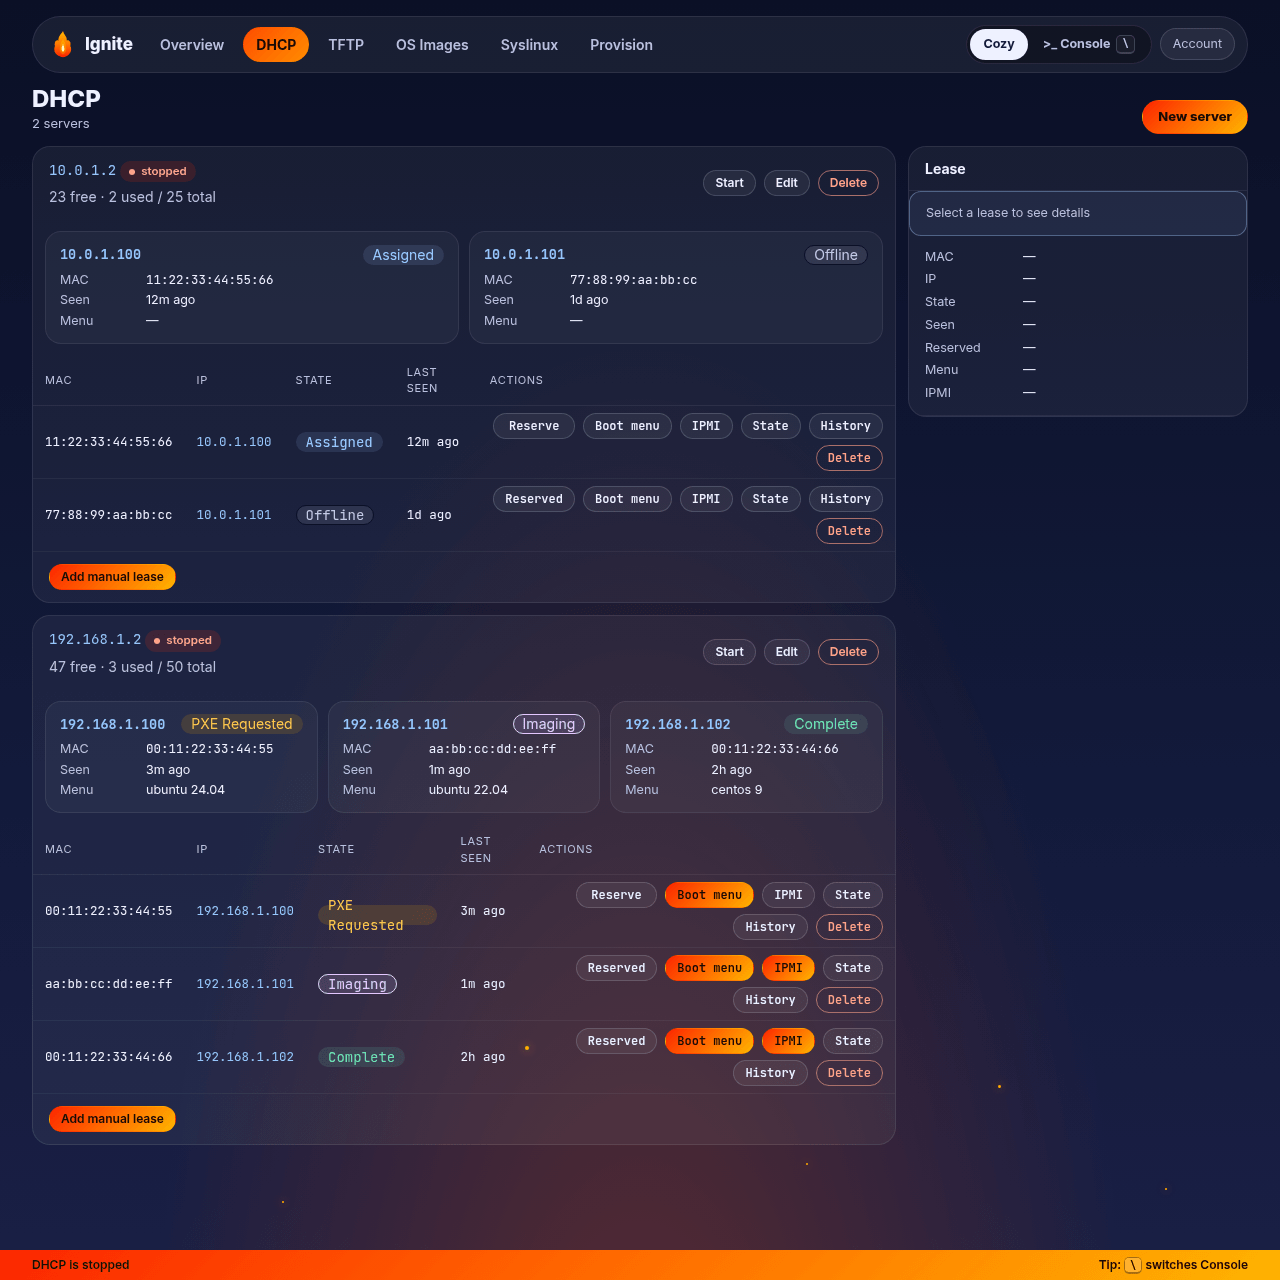
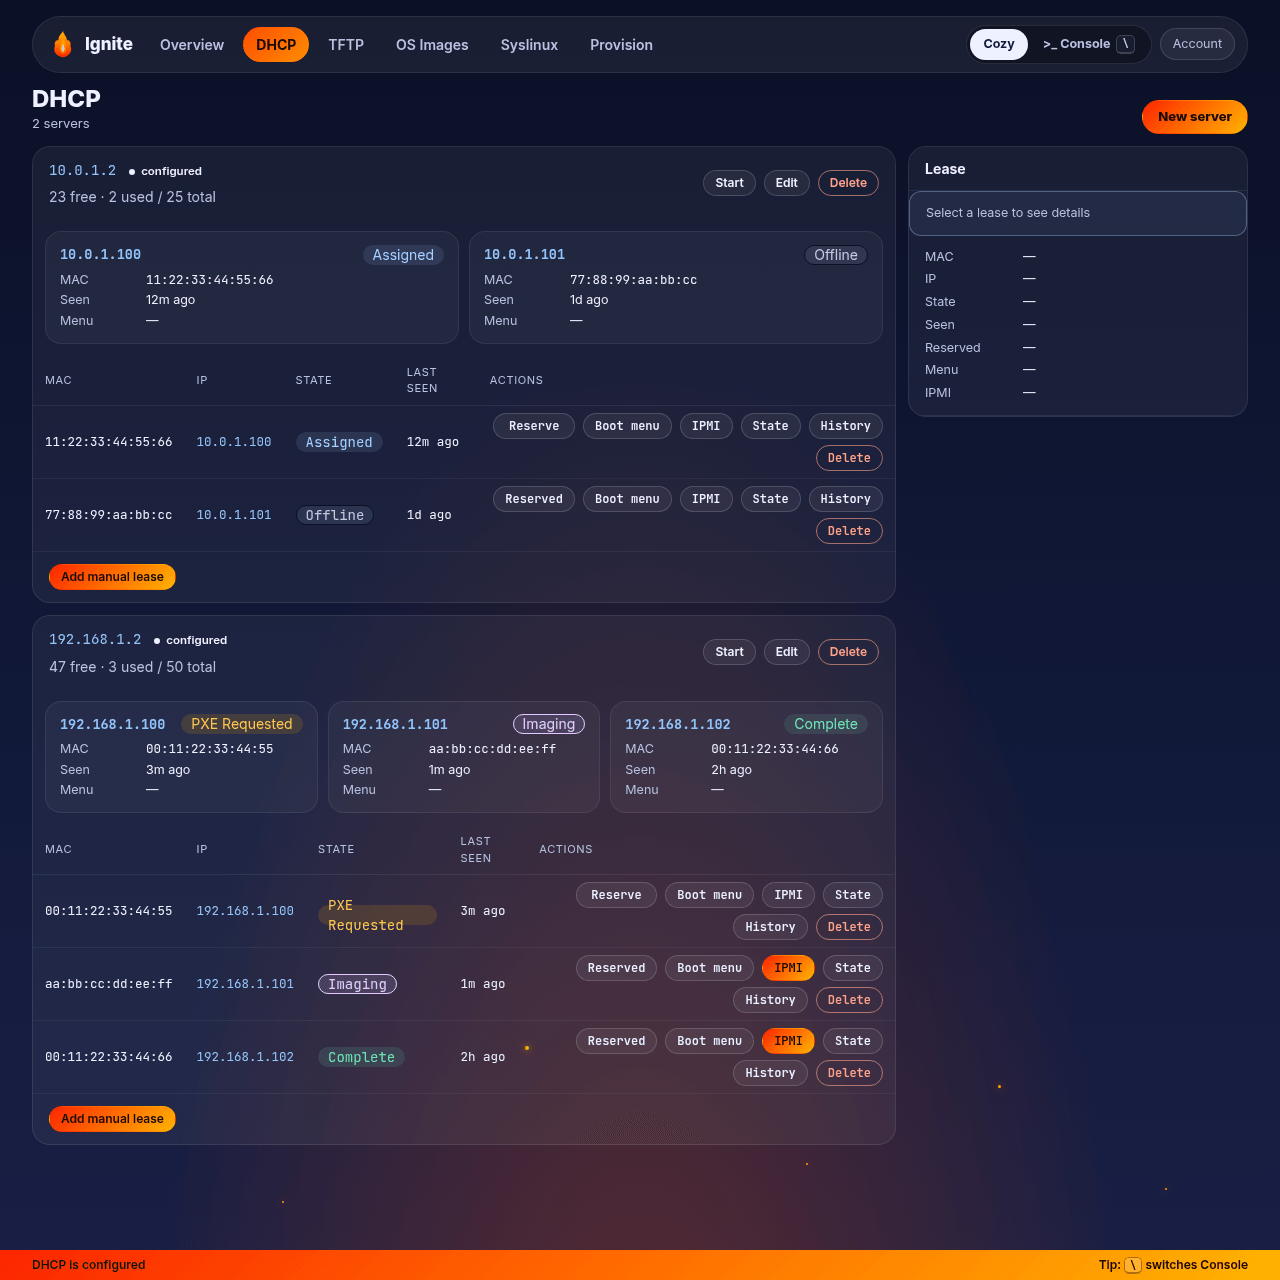
Show the DHCP server state without renaming it.
Overview, the DHCP page, and the status bar read one helper and keep running, configured, and stopped as given. A menu path, including /tmp, renders as an em dash until the backend supplies a friendly name.

diff --git a/handlers/ui_render_test.go b/handlers/ui_render_test.go
@@ -67,26 +67,26 @@ func TestAttentionAgreesWithDHCPStatus(t *testing.T) {
 		HTTPServer: ServiceStatus{Status: "running"},
 		TFTPServer: ServiceStatus{Status: "running"},
 		DHCPServers: []DHCPServerStatus{
-			{IP: "192.168.1.2", Status: "stopped"},
-			{IP: "10.0.1.2", Status: "stopped"},
+			{IP: "192.168.1.2", Status: "configured"},
+			{IP: "10.0.1.2", Status: "configured"},
 		},
 	}
 	annotateStatus(one)
 	if one.OverallStatus != "partial" {
 		t.Fatalf("overall %q", one.OverallStatus)
 	}
-	const wantOne = "1 thing needs attention: DHCP 192.168.1.2, 10.0.1.2 stopped"
-	if one.AttentionCozy != wantOne || one.AttentionConsole != "DHCP 192.168.1.2, 10.0.1.2 stopped" {
+	const wantOne = "1 thing needs attention: DHCP 192.168.1.2, 10.0.1.2 configured"
+	if one.AttentionCozy != wantOne || one.AttentionConsole != "DHCP 192.168.1.2, 10.0.1.2 configured" {
 		t.Fatalf("one issue: %q / %q", one.AttentionCozy, one.AttentionConsole)
 	}
 
 	two := &StatusPageData{
 		HTTPServer:  ServiceStatus{Status: "running"},
 		TFTPServer:  ServiceStatus{Status: "stopped"},
-		DHCPServers: []DHCPServerStatus{{IP: "10.0.0.1", Status: "stopped"}},
+		DHCPServers: []DHCPServerStatus{{IP: "10.0.0.1", Status: "configured"}},
 	}
 	annotateStatus(two)
-	const wantTwo = "2 things need attention: TFTP stopped · DHCP 10.0.0.1 stopped"
+	const wantTwo = "2 things need attention: TFTP stopped · DHCP 10.0.0.1 configured"
 	if two.OverallStatus != "partial" || two.AttentionCozy != wantTwo {
 		t.Fatalf("two issues: %s %q", two.OverallStatus, two.AttentionCozy)
 	}
@@ -203,7 +203,7 @@ func TestPagesRenderThemesFromMode(t *testing.T) {
 		Servers: []DHCPServerView{{
 			TFTPIP:     "192.168.1.2",
 			Running:    false,
-			StatusWord: "stopped",
+			StatusWord: "configured",
 			LeaseRange: 50,
 			Used:       1,
 			Free:       49,
@@ -218,19 +218,23 @@ func TestPagesRenderThemesFromMode(t *testing.T) {
 					OS:       "ubuntu",
 					Version:  "24.04",
 				},
-				MenuLabel: "ubuntu 24.04",
-				LastSeen:  time.Date(2026, 1, 2, 3, 4, 5, 0, time.UTC),
+				MenuLabel: menuLabel(dhcp.BootMenu{
+					Filename: "/tmp/ignite-tftp.UPoTst/pxelinux.cfg/01-00-11-22-33-44-55",
+					OS:       "ubuntu",
+					Version:  "24.04",
+				}),
+				LastSeen: time.Date(2026, 1, 2, 3, 4, 5, 0, time.UTC),
 			}, {
 				MAC:              "11:22:33:44:55:66",
 				IP:               "192.168.1.101",
 				StateDisplayName: "Offline",
 				StateBadgeClass:  "badge-ghost",
-				MenuLabel:        "Custom menu",
+				MenuLabel:        menuLabel(dhcp.BootMenu{Filename: "lab-menu"}),
 			}},
 		}, {
 			TFTPIP:     "10.0.1.2",
 			Running:    false,
-			StatusWord: "stopped",
+			StatusWord: "configured",
 			LeaseRange: 25,
 		}},
 	})
@@ -257,13 +261,12 @@ func TestPagesRenderThemesFromMode(t *testing.T) {
 	}
 	for _, want := range []string{
 		`class="sb"`,
-		"DHCP is stopped",
+		"DHCP is configured",
 		"2 servers · 2 leases",
 		"Select a lease to see details",
 		`id="det-title"`,
 		"Last seen",
-		"ubuntu 24.04",
-		"Custom menu",
+		"lab-menu",
 		"No leases on this server.",
 		`class="main"`,
 		"CONSOLE",
@@ -283,8 +286,8 @@ func TestPagesRenderThemesFromMode(t *testing.T) {
 	if strings.Contains(console, "/tmp/") || strings.Contains(console, "pxelinux.cfg") {
 		t.Error("dhcp page renders an internal menu path")
 	}
-	if strings.Contains(console, ">configured<") {
-		t.Error("dhcp page still says configured")
+	if !strings.Contains(console, ">configured<") {
+		t.Error("dhcp page did not show the server state")
 	}
 
 	tftp := renderNamed(t, "tftp", &TFTPData{

diff --git a/handlers/layout.go b/handlers/layout.go
@@ -277,20 +277,11 @@ func cozyHealth(overall string) string {
 func derivedHealth(data any, page string) string {
 	switch page {
 	case "dhcp":
-		servers, running, ok := dhcpRunning(data)
+		words, ok := dhcpStateWords(data)
 		if !ok {
 			return ""
 		}
-		switch {
-		case servers == 0:
-			return "No DHCP servers yet"
-		case running == 0:
-			return "DHCP is stopped"
-		case running == servers:
-			return "DHCP is running"
-		default:
-			return "Some DHCP servers are stopped"
-		}
+		return dhcpStateHealth(words)
 	case "tftp":
 		switch fieldString(data, "ServerStatus") {
 		case "running":
@@ -433,9 +424,56 @@ func fieldLen(data any, name string) (int, bool) {
 	return f.Len(), true
 }
 
-func dhcpRunning(data any) (servers, running int, ok bool) {
-	servers, running, _, ok = dhcpTotals(data)
-	return servers, running, ok
+// dhcpStateWords reads StatusWord from each DHCP server view. The status
+// bar uses those words as stored and does not rename one state to another.
+func dhcpStateWords(data any) ([]string, bool) {
+	f, found := structField(data, "Servers")
+	if !found || f.Kind() != reflect.Slice {
+		return nil, false
+	}
+	words := make([]string, 0, f.Len())
+	for i := 0; i < f.Len(); i++ {
+		item := f.Index(i)
+		for item.Kind() == reflect.Pointer || item.Kind() == reflect.Interface {
+			if item.IsNil() {
+				item = reflect.Value{}
+				break
+			}
+			item = item.Elem()
+		}
+		if !item.IsValid() || item.Kind() != reflect.Struct {
+			continue
+		}
+		word := item.FieldByName("StatusWord")
+		if word.IsValid() && word.Kind() == reflect.String {
+			words = append(words, strings.TrimSpace(word.String()))
+		}
+	}
+	return words, true
+}
+
+// dhcpStateHealth is the DHCP status-bar sentence. Every server sharing one
+// word reads "DHCP is <word>". Mixed words are listed in server order.
+func dhcpStateHealth(words []string) string {
+	if len(words) == 0 {
+		return "No DHCP servers yet"
+	}
+	var order []string
+	seen := map[string]bool{}
+	for _, word := range words {
+		if word == "" || seen[word] {
+			continue
+		}
+		seen[word] = true
+		order = append(order, word)
+	}
+	if len(order) == 0 {
+		return "No DHCP servers yet"
+	}
+	if len(order) == 1 {
+		return "DHCP is " + order[0]
+	}
+	return "DHCP is " + strings.Join(order, " and ")
 }
 
 func dhcpTotals(data any) (servers, running, leases int, ok bool) {

diff --git a/handlers/dhcp_test.go b/handlers/dhcp_test.go
@@ -561,29 +561,29 @@ func TestDHCPHandlers_getServerStatusBadge(t *testing.T) {
 	assert.Equal(t, "badge-error", badge)
 }
 
-func TestDHCPStatusWord(t *testing.T) {
-	if dhcpStatusWord(true) != "running" || dhcpStatusWord(false) != "stopped" {
-		t.Fatalf("words: %q %q", dhcpStatusWord(true), dhcpStatusWord(false))
+func TestDHCPServerState(t *testing.T) {
+	if dhcpServerState("", true) != "running" || dhcpServerState("", false) != "configured" {
+		t.Fatalf("fallback: %q %q", dhcpServerState("", true), dhcpServerState("", false))
+	}
+	if dhcpServerState("stopped", true) != "stopped" || dhcpServerState(" configured ", false) != "configured" {
+		t.Fatalf("passthrough: %q %q", dhcpServerState("stopped", true), dhcpServerState(" configured ", false))
 	}
 }
 
 func TestMenuLabel(t *testing.T) {
-	friendly := menuLabel(dhcp.BootMenu{
+	path := menuLabel(dhcp.BootMenu{
 		Filename: "/tmp/ignite-tftp.UPoTst/pxelinux.cfg/01-00-11-22-33-44-55",
 		OS:       "ubuntu",
 		Version:  "24.04",
 	})
-	if friendly != "ubuntu 24.04" {
-		t.Fatalf("os label: %q", friendly)
+	if path != "" {
+		t.Fatalf("tmp path: %q", path)
 	}
-	if got := menuLabel(dhcp.BootMenu{Filename: `/var/lib/tftp/pxelinux.cfg/01-aa`}); got != "Custom menu" {
-		t.Fatalf("path only: %q", got)
-	}
-	if got := menuLabel(dhcp.BootMenu{Filename: `ubuntu/24.04/vmlinuz`}); got != "Custom menu" {
+	if got := menuLabel(dhcp.BootMenu{Filename: `ubuntu/24.04/vmlinuz`, OS: "ubuntu", Version: "24.04"}); got != "" {
 		t.Fatalf("relative path: %q", got)
 	}
-	if got := menuLabel(dhcp.BootMenu{Filename: "custom.cfg"}); got != "custom.cfg" {
-		t.Fatalf("bare file: %q", got)
+	if got := menuLabel(dhcp.BootMenu{Filename: "lab-menu"}); got != "lab-menu" {
+		t.Fatalf("name: %q", got)
 	}
 	if got := menuLabel(dhcp.BootMenu{}); got != "" {
 		t.Fatalf("empty: %q", got)

diff --git a/handlers/status.go b/handlers/status.go
@@ -7,6 +7,7 @@ import (
 	"net/http"
 	"sort"
 	"strconv"
+	"strings"
 	"sync"
 	"time"
 )
@@ -83,14 +84,20 @@ func isDHCPRunning(serverID string, modelStarted bool) bool {
 	return modelStarted
 }
 
-// dhcpStatusWord is the only status word for a DHCP server. Overview tiles,
-// the DHCP page badge, and the status bar all use it. A server that is not
-// running is "stopped"; stored leases do not make it "configured".
-func dhcpStatusWord(running bool) string {
+// dhcpServerState is the DHCP server word Overview, /status/content, the
+// DHCP page, and the status bar all display. A non-empty state from the
+// server record is returned unchanged, so running, configured, and stopped
+// stay distinct. Until that field is set, a live listener is "running" and
+// any other record keeps the word this status endpoint already used,
+// "configured".
+func dhcpServerState(state string, running bool) string {
+	if s := strings.TrimSpace(state); s != "" {
+		return s
+	}
 	if running {
 		return "running"
 	}
-	return "stopped"
+	return "configured"
 }
 
 // StatusHandlers handles status-related requests
@@ -174,7 +181,7 @@ func (h *StatusHandlers) getStatusData(r *http.Request) (*StatusPageData, error)
 	for _, server := range servers {
 		leases, _ := h.container.LeaseService.GetLeasesByServer(ctx, server.ID)
 
-		status := dhcpStatusWord(isDHCPRunning(server.ID, server.Started))
+		status := dhcpServerState("", isDHCPRunning(server.ID, server.Started))
 
 		dhcpServers = append(dhcpServers, DHCPServerStatus{
 			ID:          server.ID,

diff --git a/handlers/dhcp.go b/handlers/dhcp.go
@@ -61,7 +61,7 @@ func (h *DHCPHandlers) convertServerToView(ctx context.Context, server *dhcp.Ser
 		ID:         server.ID,
 		TFTPIP:     server.IP.String(),
 		Status:     h.getServerStatusBadge(running),
-		StatusWord: dhcpStatusWord(running),
+		StatusWord: dhcpServerState("", running),
 		Leases:     h.convertLeasesToViews(leases),
 		LeaseRange: server.LeaseRange,
 		Used:       used,
@@ -782,22 +782,14 @@ func (h *DHCPHandlers) convertLeasesToViews(leases []*dhcp.Lease) []LeaseView {
 	return views
 }
 
-// menuLabel is the boot menu name shown on cards, tables, and the detail
-// panel. OS and version win over Filename, because a saved menu stores the
-// pxelinux.cfg path in Filename. A path with no OS or version is "Custom menu".
-// An empty menu returns "" so the template can print an em dash.
+// menuLabel is the lease menu text. Filename often holds a pxelinux.cfg
+// path, including /tmp paths written by the boot-menu form. A path is not
+// a name, so the template prints an em dash. A friendly name with no
+// directory separators is shown as stored.
 func menuLabel(menu dhcp.BootMenu) string {
-	osName := strings.TrimSpace(menu.OS)
-	version := strings.TrimSpace(menu.Version)
-	if osName != "" || version != "" {
-		return strings.TrimSpace(osName + " " + version)
-	}
 	file := strings.TrimSpace(menu.Filename)
-	if file == "" {
+	if file == "" || strings.ContainsAny(file, `/\`) {
 		return ""
-	}
-	if strings.ContainsAny(file, `/\`) {
-		return "Custom menu"
 	}
 	return file
 }
